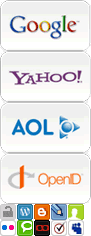
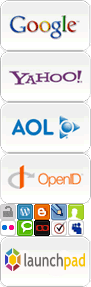
added support for launchpad in the openid selector ask for more info during openid login (first name, last name, country and language)

diff --git a/public/javascripts/openid/js/jquery.openid.min.js b/public/javascripts/openid/js/jquery.openid.min.js
@@ -4,4 +4,4 @@ http://code.google.com/p/openid-realselector/
 
 Martin Conte Mac Donell <Reflejo@gmail.com>
 */
-(function($){$.fn.openid=function(e){var f;var g='openid_username';var h=$('#openid_inputarea').length?$('#openid_inputarea'):$('<div id="openid_inputarea" />');var j={txt:{label:'Enter your {provider} {username}',username:'username',title:'Select your openID provider',sign:'Sign-In'},providers:[{name:'Google',url:'https://www.google.com/accounts/o8/id',label:null,big:true},{name:'Yahoo',url:'http://yahoo.com/',label:null,big:true},{name:'AOL',username_txt:'screenname',url:'http://openid.aol.com/{username}',big:true},{name:'OpenID',username_txt:'url',big:true},{name:'MyOpenID',url:'http://{username}.myopenid.com/'},{name:'Flickr',url:'http://flickr.com/{username}/'},{name:'Technorati',url:'http://technorati.com/people/technorati/{username}/'},{name:'Wordpress',url:'http://{username}.wordpress.com/'},{name:'Blogger',url:'http://{username}.blogspot.com/'},{name:'Verisign',url:'http://{username}.pip.verisignlabs.com/'},{name:'Vidoop',url:'http://{username}.myvidoop.com/'},{name:'ClaimID',url:'http://claimid.com/{username}'},{name:'LiveJournal',url:'http://{username}.livejournal.com'},{name:'MySpace',url:'http://www.myspace.com/{username}'}],cookie_expires:6*30,cookie_path:'/',img_path:'/img/'};var k=function(b,c,d){var a=$('<a title="'+b+'" href="#" id="btn_'+c+'" class="openid_'+d+'_btn '+b+'" />');return a.click(n)};var l=function(a){var b=new Date();b.setTime(b.getTime()+(q.cookie_expires*24*60*60*1000));document.cookie="openid_prov="+a+"; expires="+b.toGMTString()+"; path="+q.cookie_path};var m=function(){var c=document.cookie.split(';');for(i in c){if((pos=c[i].indexOf("openid_prov="))!=-1)return $.trim(c[i].slice(pos+12))}};var n=function(a,b){var c=$(b||this).attr('id').replace('btn_','');if(!(f=q.providers[c]))return;if(highlight=$('#openid_highlight'))highlight.replaceWith($('#openid_highlight a')[0]);$('#btn_'+c).wrap('<div id="openid_highlight" />');l(c);o();if(f.label===null){h.text(q.txt.title);if(!b){h.fadeOut();t.submit()}}return false};var o=function(){var a=(f.label||q.txt.label).replace('{username}',(f.username_txt!==undefined)?f.username_txt:q.txt.username).replace('{provider}',f.name);h.empty().show().append('<span class="oidlabel">'+a+'</span><input id="'+g+'" type="text" '+' name="username_txt" class="Verisign"/><input type="submit" value="'+q.txt.sign+'"/>');$('#'+g).focus()};var p=function(){var a=(f.url)?f.url.replace('{username}',$('#'+g).val()):$('#'+g).val();t.append($('<input type="hidden" name="openid_identifier" value="'+a+'" />'))};var q=$.extend(j,e||{});var r=$('<div id="openid_btns" />');var s=true;$.each(q.providers,function(i,a){if(!a.big&&s){r.append('<br />');s=false}r.append(k(a.name,i,(a.big)?'large':'small'))});var t=this;t.css({'background-image':'none'});t.append(r).submit(p);r.append(h);if(idx=m())n(null,'#btn_'+idx);else h.text(q.txt.title).show();return this}})(jQuery);
+(function($){$.fn.openid=function(e){var f;var g='openid_username';var h=$('#openid_inputarea').length?$('#openid_inputarea'):$('<div id="openid_inputarea" />');var j={txt:{label:'Enter your {provider} {username}',username:'username',title:'Select your openID provider',sign:'Sign-In'},providers:[{name:'Google',url:'https://www.google.com/accounts/o8/id',label:null,big:true},{name:'Yahoo',url:'http://yahoo.com/',label:null,big:true},{name:'AOL',username_txt:'screenname',url:'http://openid.aol.com/{username}',big:true},{name:'Launchpad',username_txt:'login',url:'https://launchpad.net/~{username}',big:true},{name:'OpenID',username_txt:'url',big:true},{name:'MyOpenID',url:'http://{username}.myopenid.com/'},{name:'Flickr',url:'http://flickr.com/{username}/'},{name:'Technorati',url:'http://technorati.com/people/technorati/{username}/'},{name:'Wordpress',url:'http://{username}.wordpress.com/'},{name:'Blogger',url:'http://{username}.blogspot.com/'},{name:'Verisign',url:'http://{username}.pip.verisignlabs.com/'},{name:'Vidoop',url:'http://{username}.myvidoop.com/'},{name:'ClaimID',url:'http://claimid.com/{username}'},{name:'LiveJournal',url:'http://{username}.livejournal.com'},{name:'MySpace',url:'http://www.myspace.com/{username}'}],cookie_expires:6*30,cookie_path:'/',img_path:'/img/'};var k=function(b,c,d){var a=$('<a title="'+b+'" href="#" id="btn_'+c+'" class="openid_'+d+'_btn '+b+'" />');return a.click(n)};var l=function(a){var b=new Date();b.setTime(b.getTime()+(q.cookie_expires*24*60*60*1000));document.cookie="openid_prov="+a+"; expires="+b.toGMTString()+"; path="+q.cookie_path};var m=function(){var c=document.cookie.split(';');for(i in c){if((pos=c[i].indexOf("openid_prov="))!=-1)return $.trim(c[i].slice(pos+12))}};var n=function(a,b){var c=$(b||this).attr('id').replace('btn_','');if(!(f=q.providers[c]))return;if(highlight=$('#openid_highlight'))highlight.replaceWith($('#openid_highlight a')[0]);$('#btn_'+c).wrap('<div id="openid_highlight" />');l(c);o();if(f.label===null){h.text(q.txt.title);if(!b){h.fadeOut();t.submit()}}return false};var o=function(){var a=(f.label||q.txt.label).replace('{username}',(f.username_txt!==undefined)?f.username_txt:q.txt.username).replace('{provider}',f.name);h.empty().show().append('<span class="oidlabel">'+a+'</span><input id="'+g+'" type="text" '+' name="username_txt" class="Verisign"/><input type="submit" value="'+q.txt.sign+'"/>');$('#'+g).focus()};var p=function(){var a=(f.url)?f.url.replace('{username}',$('#'+g).val()):$('#'+g).val();t.append($('<input type="hidden" name="openid_identifier" value="'+a+'" />'))};var q=$.extend(j,e||{});var r=$('<div id="openid_btns" />');var s=true;$.each(q.providers,function(i,a){if(!a.big&&s){r.append('<br />');s=false}r.append(k(a.name,i,(a.big)?'large':'small'))});var t=this;t.css({'background-image':'none'});t.append(r).submit(p);r.append(h);if(idx=m())n(null,'#btn_'+idx);else h.text(q.txt.title).show();return this}})(jQuery);

diff --git a/public/javascripts/openid/css/style.css b/public/javascripts/openid/css/style.css
@@ -5,7 +5,7 @@ body {
 #openid {
   background: url(/javascripts/openid/img/indicator.gif) center center no-repeat;
   margin: 0 auto;
-  width: 440px;
+  width: 500px;
   height: 162px;
 }
 
@@ -57,6 +57,7 @@ body {
 .Google { background-position: 0 0; }
 .Yahoo { background-position: 0 -51px; }
 .AOL { background-position: 0 -102px; }
+.Launchpad { background-position: 0 -236.9px; }
 .OpenID { background-position: 0 -153px; }
 .MyOpenID { background-position: 0 -204px; }
 .Flickr { background-position: 0 -220px; }
@@ -67,7 +68,7 @@ body {
 .Vidoop { background-position: -34px -220px; }
 .ClaimID { background-position: -68px -204px; }
 .LiveJournal { background-position: -51px -204px; }
-.MySpace { background-position: -68px -220px; }
+.MySpace { background-position: 0px -220px; }
 
 a.openid_large_btn:focus {
   outline: none;

diff --git a/lib/authenticated_system.rb b/lib/authenticated_system.rb
@@ -86,8 +86,10 @@ module AuthenticatedSystem
     authenticate_with_open_id(
       identity_url,
       :required => [:nickname,
-                    :email,
-                    'http://axschema.org/contact/email' ]
+                    :email, :fullname, :country, :language,
+                    'http://axschema.org/contact/email',
+                    'http://axschema.org/namePerson/first','http://axschema.org/namePerson/last',
+                   'http://axschema.org/contact/country/home', 'http://axschema.org/pref/language']
     ) do |result, identity_url, registration|
       failed = !result.successful?
       if !failed
@@ -129,6 +131,8 @@ module AuthenticatedSystem
       google_id = true
     elsif identity_url =~ %r{//me.yahoo.com}
       yahoo_id = true
+    elsif identity_url =~ %r{//launchpad.net}
+      launchpad_url = true
     end
 
     if google_id || yahoo_id
@@ -152,6 +156,8 @@ module AuthenticatedSystem
         login = registration["nickname"]+"_gid"
       elsif yahoo_id
         login = registration["nickname"]+"_yid"
+      elsif launchpad_id
+        login = registration["nickname"]+"_lp"
       else
         o =  [('a'..'z'),('A'..'Z')].map{|i| i.to_a}.flatten
         string  =  (0..50).map{ o[rand(o.length)]  }.join
@@ -163,8 +169,21 @@ module AuthenticatedSystem
     end
 
     email = registration["email"]
+    name = registration["fullname"]
+    country_name = registration['country']
+    language = registration['language']
 
-    @user = User.create(:login => login, :email => email, :identity_url=> identity_url)
+    if name.to_s.blank? && registration['http://axschema.org/namePerson/first']
+      name = "#{registration['http://axschema.org/namePerson/first']} #{registration['http://axschema.org/namePerson/last']}"
+    end
+    if language.to_s.blank? && registration['http://axschema.org/pref/language']
+      language = registration['http://axschema.org/pref/language']
+    end
+    if country_name.to_s.blank? && registration['http://axschema.org/contact/country/home']
+      country_name = registration['http://axschema.org/contact/country/home']
+    end
+    @user = User.create(:login => login, :email => email, :identity_url=> identity_url,
+                        :name=> name, :country_name => country_name, :language => language)
     if !@user.valid?
       Rails.logger.error("FAILED OPENID LOGIN WITH: #{identity_url} #{registration.inspect}")
       Rails.logger.error(">>>> #{@user.errors.full_messages.join(", ")}")
